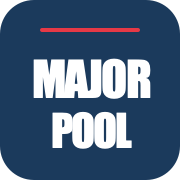
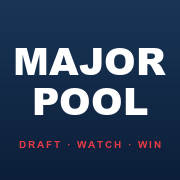
fix(auth): bestehende auth.user beim Registrieren auf signIn umlenken
Beide Apps (Hausbau + Major Pool) teilen sich auth.users der Privat-Supabase-Instanz.
Wer schon in der einen App registriert ist, lief beim Signup in der anderen in
"User already registered" und blieb hängen. Jetzt: signUp-Error wird abgefangen,
mit demselben Passwort signInWithPassword versucht — onAuthSuccess legt
public.users idempotent an. Falls Passwort falsch: klare deutsche Hinweismeldung.

diff --git a/dist/index.html b/dist/index.html
@@ -54,6 +54,7 @@ body::before{content:'';position:fixed;inset:0;background:
 /* ===== Header ===== */
 .app-header{padding:18px 20px 14px;text-align:center;flex-shrink:0;position:relative;background:linear-gradient(135deg,#1B3A5C,#0F2440);color:#fff}
 .app-header::after{content:'';position:absolute;bottom:0;left:0;right:0;height:3px;background:linear-gradient(90deg,#E63946,#FF6B6B,#E63946)}
+.header-tagline{font-family:'Inter',sans-serif;font-size:10px;color:#E63946;letter-spacing:5px;text-transform:uppercase;margin-top:6px;font-weight:700}
 .header-top{font-family:'Bebas Neue',Impact,sans-serif;font-size:10px;letter-spacing:5px;color:#E63946;line-height:1;margin-bottom:4px}
 .header-title{font-family:'Anton',Impact,sans-serif;font-size:30px;font-weight:400;color:#fff;letter-spacing:4px;text-transform:uppercase;line-height:1.05}
 .header-sub{font-family:'Inter',sans-serif;font-size:9px;color:rgba(255,255,255,.65);letter-spacing:4px;text-transform:uppercase;margin-top:5px;font-weight:600}
@@ -453,7 +454,8 @@ body::before{content:'';position:fixed;inset:0;background:
       <span id="avatarText">?</span>
     </div>
     <div class="header-title" id="headerTitle" onclick="const v=document.querySelector('.view.active');if(v)v.scrollTo({top:0,behavior:'smooth'})" style="cursor:pointer">MAJOR POOL</div>
-    <div class="header-sub" id="headerSub"></div>
+    <div class="header-tagline">Draft &middot; Watch &middot; Win</div>
+    <div class="header-sub" id="headerSub" style="margin-top:8px"></div>
     <div class="live-badge stale" id="liveBadge" style="display:none"><div class="live-dot"></div><span id="liveText">Live</span></div>
     <button class="header-admin" id="btnPush" style="right:16px;display:none" onclick="togglePushDropdown()">
       <svg viewBox="0 0 24 24" id="pushIcon"><path d="M18 8A6 6 0 006 8c0 7-3 9-3 9h18s-3-2-3-9M13.73 21a2 2 0 01-3.46 0" stroke-linecap="round" stroke-linejoin="round"/></svg>
@@ -1043,6 +1045,19 @@ async function doRegister() {
     password: pass,
     options: { data: { name }, emailRedirectTo: window.location.href }
   });
+
+  // Auth-User existiert schon (z.B. aus anderer App auf gleicher Supabase-Instanz)
+  // → Wenn das eingegebene Passwort stimmt, einfach einloggen und public.users wird
+  //   in onAuthSuccess idempotent angelegt.
+  if (error && /already.*regist|already exists|user_already_exists/i.test(error.message || '')) {
+    const { error: signInErr } = await sb.auth.signInWithPassword({ email, password: pass });
+    if (signInErr) {
+      showAuthError('Diese E-Mail ist bereits registriert. Bitte unter „Anmelden" mit deinem bestehenden Passwort einloggen oder „Passwort vergessen" klicken.');
+      return;
+    }
+    return; // onAuthStateChange → onAuthSuccess
+  }
+
   if (error) { showAuthError(error.message); return; }
   // Bei Confirm-Email=OFF (siehe Supabase Auth Settings) sind wir direkt eingeloggt.
   // Bei Confirm-Email=ON: User bekommt Bestätigungs-Mail, signIn erst nach Klick.
@@ -1436,8 +1451,7 @@ function renderProfile() {
     </div>
 
     <div style="background:var(--card);border:1px solid var(--border);border-radius:var(--radius);padding:16px;margin:12px 0">
-      <div style="font-size:11px;font-weight:600;color:var(--green);letter-spacing:0.5px;margin-bottom:6px">ANZEIGENAME</div>
-      <div style="font-size:12px;color:var(--text2);margin-bottom:10px">So sehen dich andere im Pool. Z.B. dein Vorname statt der E-Mail-Adresse.</div>
+      <div style="font-size:11px;font-weight:600;color:var(--green);letter-spacing:0.5px;margin-bottom:10px">ANZEIGENAME</div>
       <div style="display:flex;gap:8px">
         <input class="input" type="text" id="displayNameInput" value="${esc(p.name || '')}" maxlength="40" style="flex:1;padding:10px;font-size:14px;border:1px solid var(--border);border-radius:8px;background:var(--bg)">
         <button class="btn btn-primary" onclick="saveDisplayName()" style="padding:10px 16px;font-size:13px">Speichern</button>

diff --git a/index.html b/index.html
@@ -54,6 +54,7 @@ body::before{content:'';position:fixed;inset:0;background:
 /* ===== Header ===== */
 .app-header{padding:18px 20px 14px;text-align:center;flex-shrink:0;position:relative;background:linear-gradient(135deg,#1B3A5C,#0F2440);color:#fff}
 .app-header::after{content:'';position:absolute;bottom:0;left:0;right:0;height:3px;background:linear-gradient(90deg,#E63946,#FF6B6B,#E63946)}
+.header-tagline{font-family:'Inter',sans-serif;font-size:10px;color:#E63946;letter-spacing:5px;text-transform:uppercase;margin-top:6px;font-weight:700}
 .header-top{font-family:'Bebas Neue',Impact,sans-serif;font-size:10px;letter-spacing:5px;color:#E63946;line-height:1;margin-bottom:4px}
 .header-title{font-family:'Anton',Impact,sans-serif;font-size:30px;font-weight:400;color:#fff;letter-spacing:4px;text-transform:uppercase;line-height:1.05}
 .header-sub{font-family:'Inter',sans-serif;font-size:9px;color:rgba(255,255,255,.65);letter-spacing:4px;text-transform:uppercase;margin-top:5px;font-weight:600}
@@ -453,7 +454,8 @@ body::before{content:'';position:fixed;inset:0;background:
       <span id="avatarText">?</span>
     </div>
     <div class="header-title" id="headerTitle" onclick="const v=document.querySelector('.view.active');if(v)v.scrollTo({top:0,behavior:'smooth'})" style="cursor:pointer">MAJOR POOL</div>
-    <div class="header-sub" id="headerSub"></div>
+    <div class="header-tagline">Draft &middot; Watch &middot; Win</div>
+    <div class="header-sub" id="headerSub" style="margin-top:8px"></div>
     <div class="live-badge stale" id="liveBadge" style="display:none"><div class="live-dot"></div><span id="liveText">Live</span></div>
     <button class="header-admin" id="btnPush" style="right:16px;display:none" onclick="togglePushDropdown()">
       <svg viewBox="0 0 24 24" id="pushIcon"><path d="M18 8A6 6 0 006 8c0 7-3 9-3 9h18s-3-2-3-9M13.73 21a2 2 0 01-3.46 0" stroke-linecap="round" stroke-linejoin="round"/></svg>
@@ -1043,6 +1045,19 @@ async function doRegister() {
     password: pass,
     options: { data: { name }, emailRedirectTo: window.location.href }
   });
+
+  // Auth-User existiert schon (z.B. aus anderer App auf gleicher Supabase-Instanz)
+  // → Wenn das eingegebene Passwort stimmt, einfach einloggen und public.users wird
+  //   in onAuthSuccess idempotent angelegt.
+  if (error && /already.*regist|already exists|user_already_exists/i.test(error.message || '')) {
+    const { error: signInErr } = await sb.auth.signInWithPassword({ email, password: pass });
+    if (signInErr) {
+      showAuthError('Diese E-Mail ist bereits registriert. Bitte unter „Anmelden" mit deinem bestehenden Passwort einloggen oder „Passwort vergessen" klicken.');
+      return;
+    }
+    return; // onAuthStateChange → onAuthSuccess
+  }
+
   if (error) { showAuthError(error.message); return; }
   // Bei Confirm-Email=OFF (siehe Supabase Auth Settings) sind wir direkt eingeloggt.
   // Bei Confirm-Email=ON: User bekommt Bestätigungs-Mail, signIn erst nach Klick.
@@ -1436,8 +1451,7 @@ function renderProfile() {
     </div>
 
     <div style="background:var(--card);border:1px solid var(--border);border-radius:var(--radius);padding:16px;margin:12px 0">
-      <div style="font-size:11px;font-weight:600;color:var(--green);letter-spacing:0.5px;margin-bottom:6px">ANZEIGENAME</div>
-      <div style="font-size:12px;color:var(--text2);margin-bottom:10px">So sehen dich andere im Pool. Z.B. dein Vorname statt der E-Mail-Adresse.</div>
+      <div style="font-size:11px;font-weight:600;color:var(--green);letter-spacing:0.5px;margin-bottom:10px">ANZEIGENAME</div>
       <div style="display:flex;gap:8px">
         <input class="input" type="text" id="displayNameInput" value="${esc(p.name || '')}" maxlength="40" style="flex:1;padding:10px;font-size:14px;border:1px solid var(--border);border-radius:8px;background:var(--bg)">
         <button class="btn btn-primary" onclick="saveDisplayName()" style="padding:10px 16px;font-size:13px">Speichern</button>
